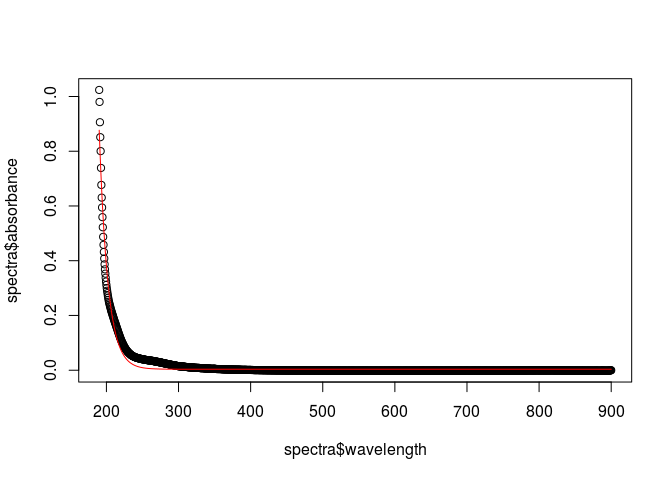
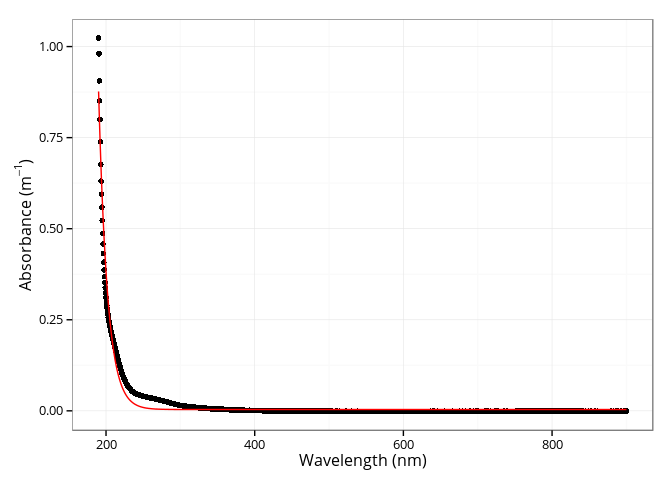
fixed typos

Changed region(s): [[0.0, 0.1562, 0.9688, 1.0], [0.0625, 0.0625, 0.125, 0.125], [0.0625, 0.8438, 0.0938, 0.875]]

diff --git a/README.md b/README.md
@@ -3,14 +3,14 @@ CDOM
 
 The **cdom** package implements various functions used to model and calculate metrics from absorption spectra of chromophotic dissolved organic matter (CDOM).
 
-There are two main goals:
+This package provides:
 
-1.  Provides simple wrappers to calculate commonly metrics found in the literature.
-    -   The **spectral curve** (Loiselle et al., 2009).
-    -   The **slope ratio (Sr)** (Helms et al., 2008).
-    -   The **spectral slope (S)** proposed by Bricaud et al., 1981.
+1.  Simple wrappers to calculate commonly metrics found in the literature.
+    -   The **spectral curve** -- Loiselle et al., (2009).
+    -   The **slope ratio (Sr)** -- Helms et al., (2008).
+    -   The **spectral slope (S)** -- Bricaud et al., (1981).
 
-2.  The **Gaussian decomposition approach** proposed in Massicotte and Markager, 2015.
+2.  The **Gaussian decomposition approach** proposed in Massicotte and Markager, (2015).
 
 The package can be installed using the following command.
 
@@ -18,26 +18,23 @@ The package can be installed using the following command.
 devtools::install_github("PMassicotte/cdom")
 ```
 
-Please note that this is a developing version of the package for testing only. Please fill an issue if you find bugs.
+Please note that this is a developing version of the package for testing only. Please fill an issue when you find bugs.
 
 Examples
 ========
 
-The spectral slope (S) by Jerlov et al. 1968?
----------------------------------------------
+The spectral slope (S) by Jerlov et al. (1968)
+----------------------------------------------
 
-The `fit_exponential()` function fits an exponential curve to CDOM data using the simple model proposed by ???
+The `fit_exponential()` function fits an exponential curve to CDOM data using the simple model proposed by Jerlov et al. (1968)
 
 ``` tex
 a(\lambda) = a(\lambda0)e^{-S(\lambda - \lambda0)} + K
 ```
 
 ``` r
-
 library(cdom)
 data("spectra")
-
-plot(spectra$wavelength, spectra$absorbance)
 
 fit <- fit_exponential(wl = spectra$wavelength,
                        spectra = spectra$absorbance,
@@ -45,7 +42,11 @@ fit <- fit_exponential(wl = spectra$wavelength,
                        startwl = 190,
                        endwl = 900)
 
-lines(spectra$wavelength, predict(fit), col = "red")
+ggplot(spectra, aes(x = wavelength, y = absorbance)) +
+  geom_point() +
+  geom_line(aes(y = predict(fit)), col = "red") +
+  xlab("Wavelength (nm)") +
+  ylab(expression(paste("Absorbance (", m ^ {-1}, ")")))
 ```
 
 ![](README-exponential-1.png)
@@ -53,7 +54,7 @@ lines(spectra$wavelength, predict(fit), col = "red")
 The slope ratio (SR) by Helms et al. 2008.
 ------------------------------------------
 
-The `slope_ratio()` function calculates the slope ratio (S<sub>R</sub>) which is defined as: S<sub>275-295</sub>/S<sub>350-400</sub>. See Helms et al. 2008 for details.
+The `slope_ratio()` function calculates the slope ratio (S<sub>R</sub>) which is defined as: S<sub>275-295</sub>/S<sub>350-400</sub>. See Helms et al. (2008) for details.
 
 ``` r
 library(cdom)
@@ -64,20 +65,24 @@ slope_ratio(spectra$wavelength, spectra$absorbance)
 #>  0.7519547
 ```
 
-The spectral curve by Loiselle et al. 2009.
--------------------------------------------
+The spectral curve by Loiselle et al. (2009).
+---------------------------------------------
 
-The `spectral_curve()` function generates the spectral curve using the slope of the linear regression between the natural log absorption spectrum over a sliding 21 nm interval (default) with 1 nm resolution.
+The `spectral_curve()` function generates the spectral curve using the slope of the linear regression between the natural log absorption spectrum and wavelengths over a sliding windows of 21 nm interval (default) at 1 nm resolution.
 
 ``` r
 library(cdom)
 data("spectra")
 
 res <-  spectral_curve(spectra$wavelength, spectra$absorbance)
-plot(res$wl, res$s, type = "l")
+
+ggplot(res, aes(x = wl, y = s)) +
+  geom_line() +
+  xlab("Wavelength (nm)") +
+  ylab(expression(paste("Spectral slope (", nm ^ {-1}, ")")))
 ```
 
-![](README-spectral_slope-1.png)
+![](README-spectral_curve-1.png)
 
 References
 ==========
